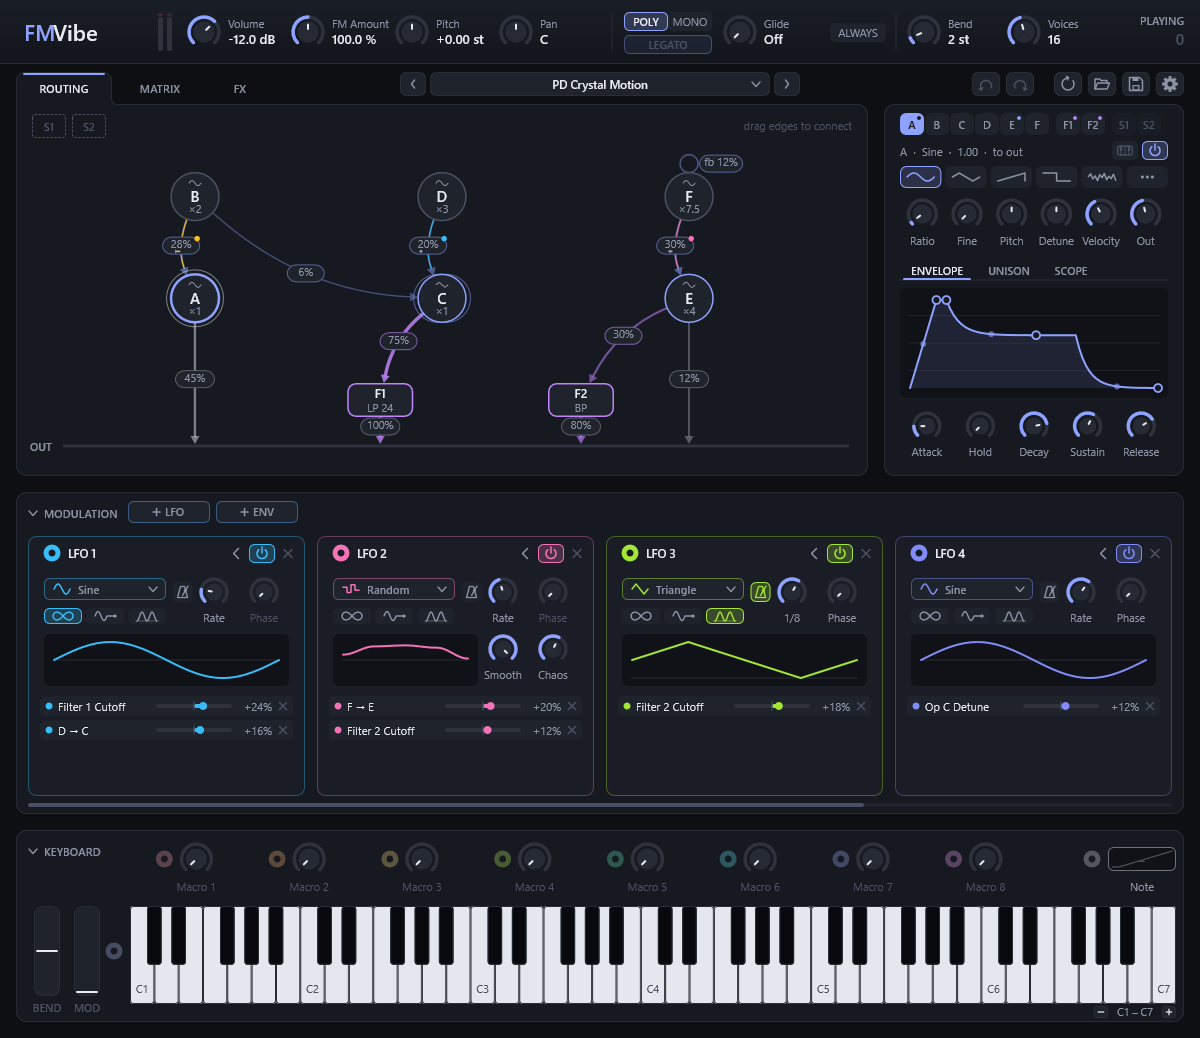
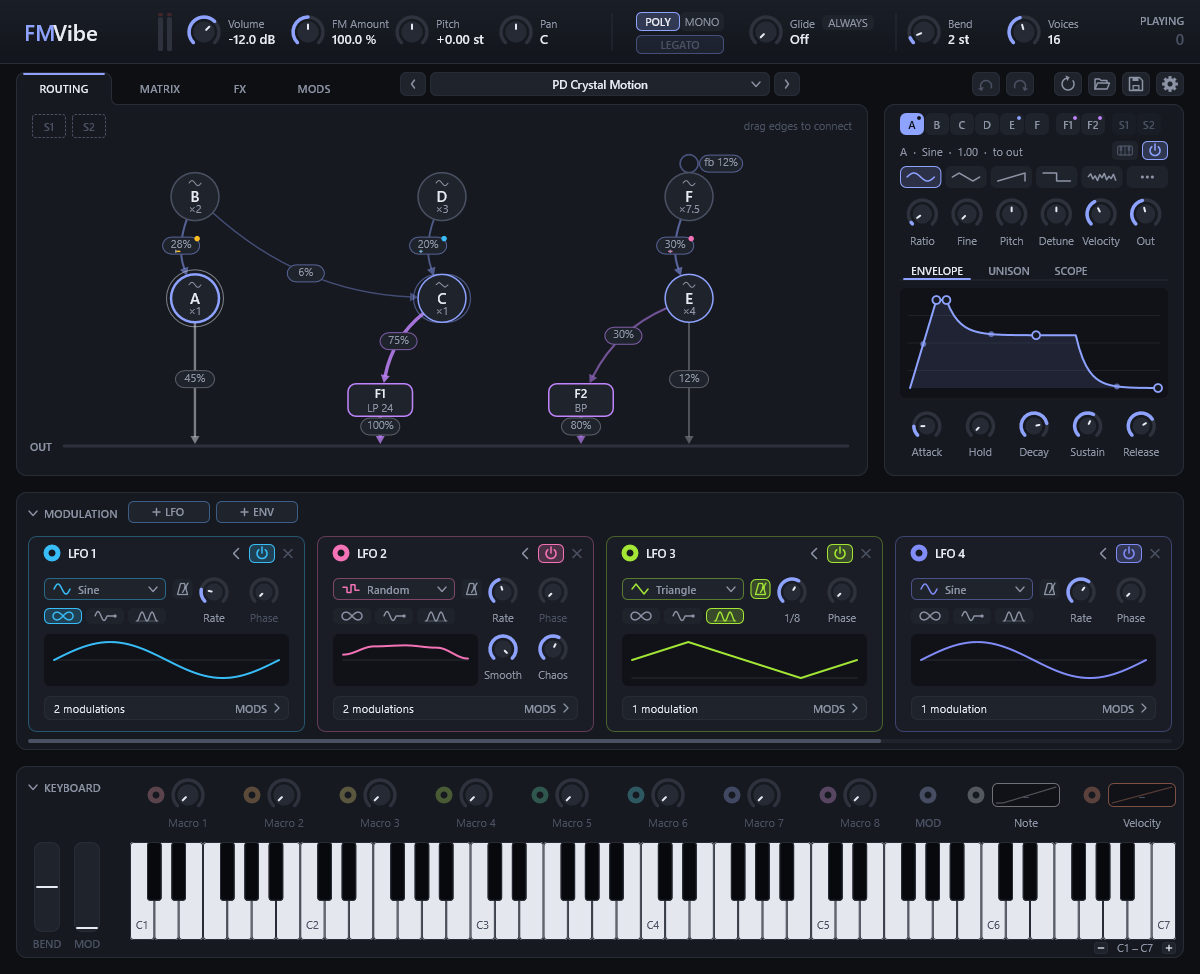
Version 0.3

diff --git a/docs/features.md b/docs/features.md
@@ -779,7 +779,7 @@ the modulation panel or the keyboard strip makes it shorter (the plugin asks the
   stronger and wider the halo.
   The editor shows it while it is dragged and keeps it when it is let go. Both are yours rather than the
   project's: they are kept in `%APPDATA%\FMVibe\settings.txt`, every FMVibe editor uses them, and other open editors
-  switch along. The dialog's bottom line shows the version (FMVibe 0.2) and that FMVibe is released under the MIT
+  switch along. The dialog's bottom line shows the version number and that FMVibe is released under the MIT
   license.
 
 ### Remote-control pages (Bitwig)

diff --git a/AGENTS.md b/AGENTS.md
@@ -345,7 +345,7 @@ itself.
 ## Plugin facts
 
 - CLAP id `io.github.pcdlin.fmvibe`. Changing it makes hosts treat it as a different plugin.
-- The version (0.2) is set once, in `project()` at the top of `CMakeLists.txt`. It reaches the code as
+- The version number is set once, in `project()` at the top of `CMakeLists.txt`. It reaches the code as
   `FMVIBE_VERSION`: the plugin descriptor reports it to hosts and the settings dialog shows it. FMVibe is released
   under the MIT license (`LICENSE`).
 - Parameter ids are stored in host projects and automation. `src/params.h` derives them per section with spare
